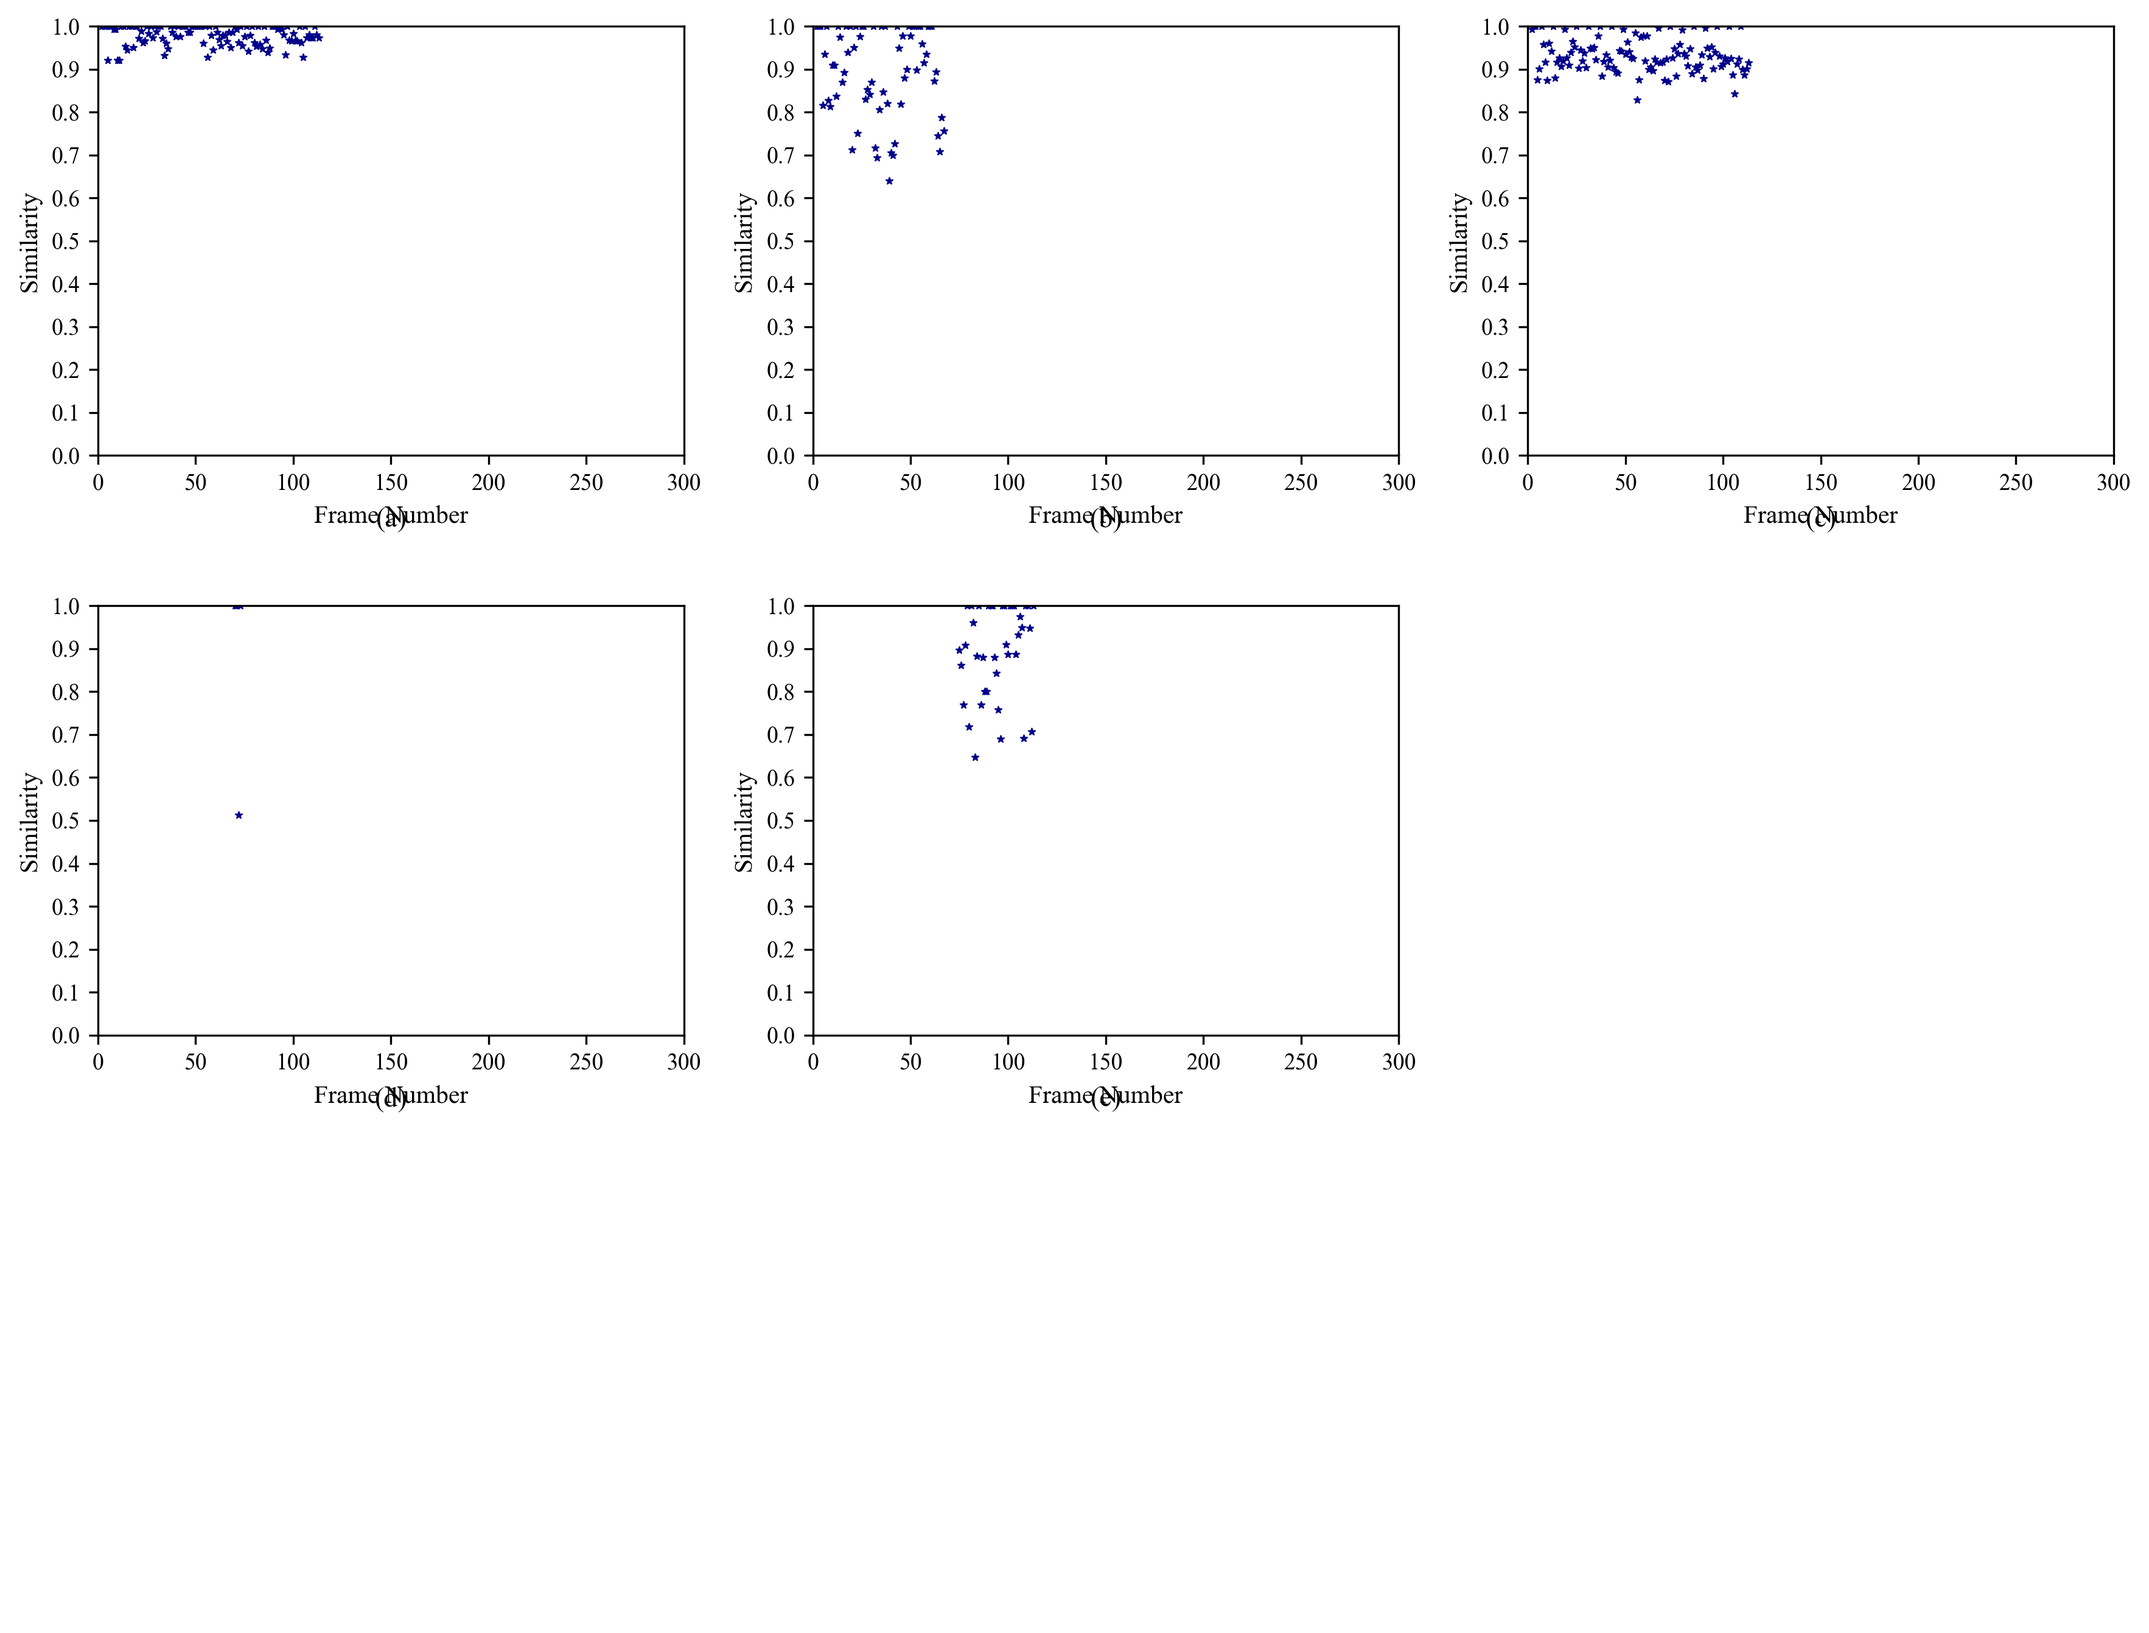
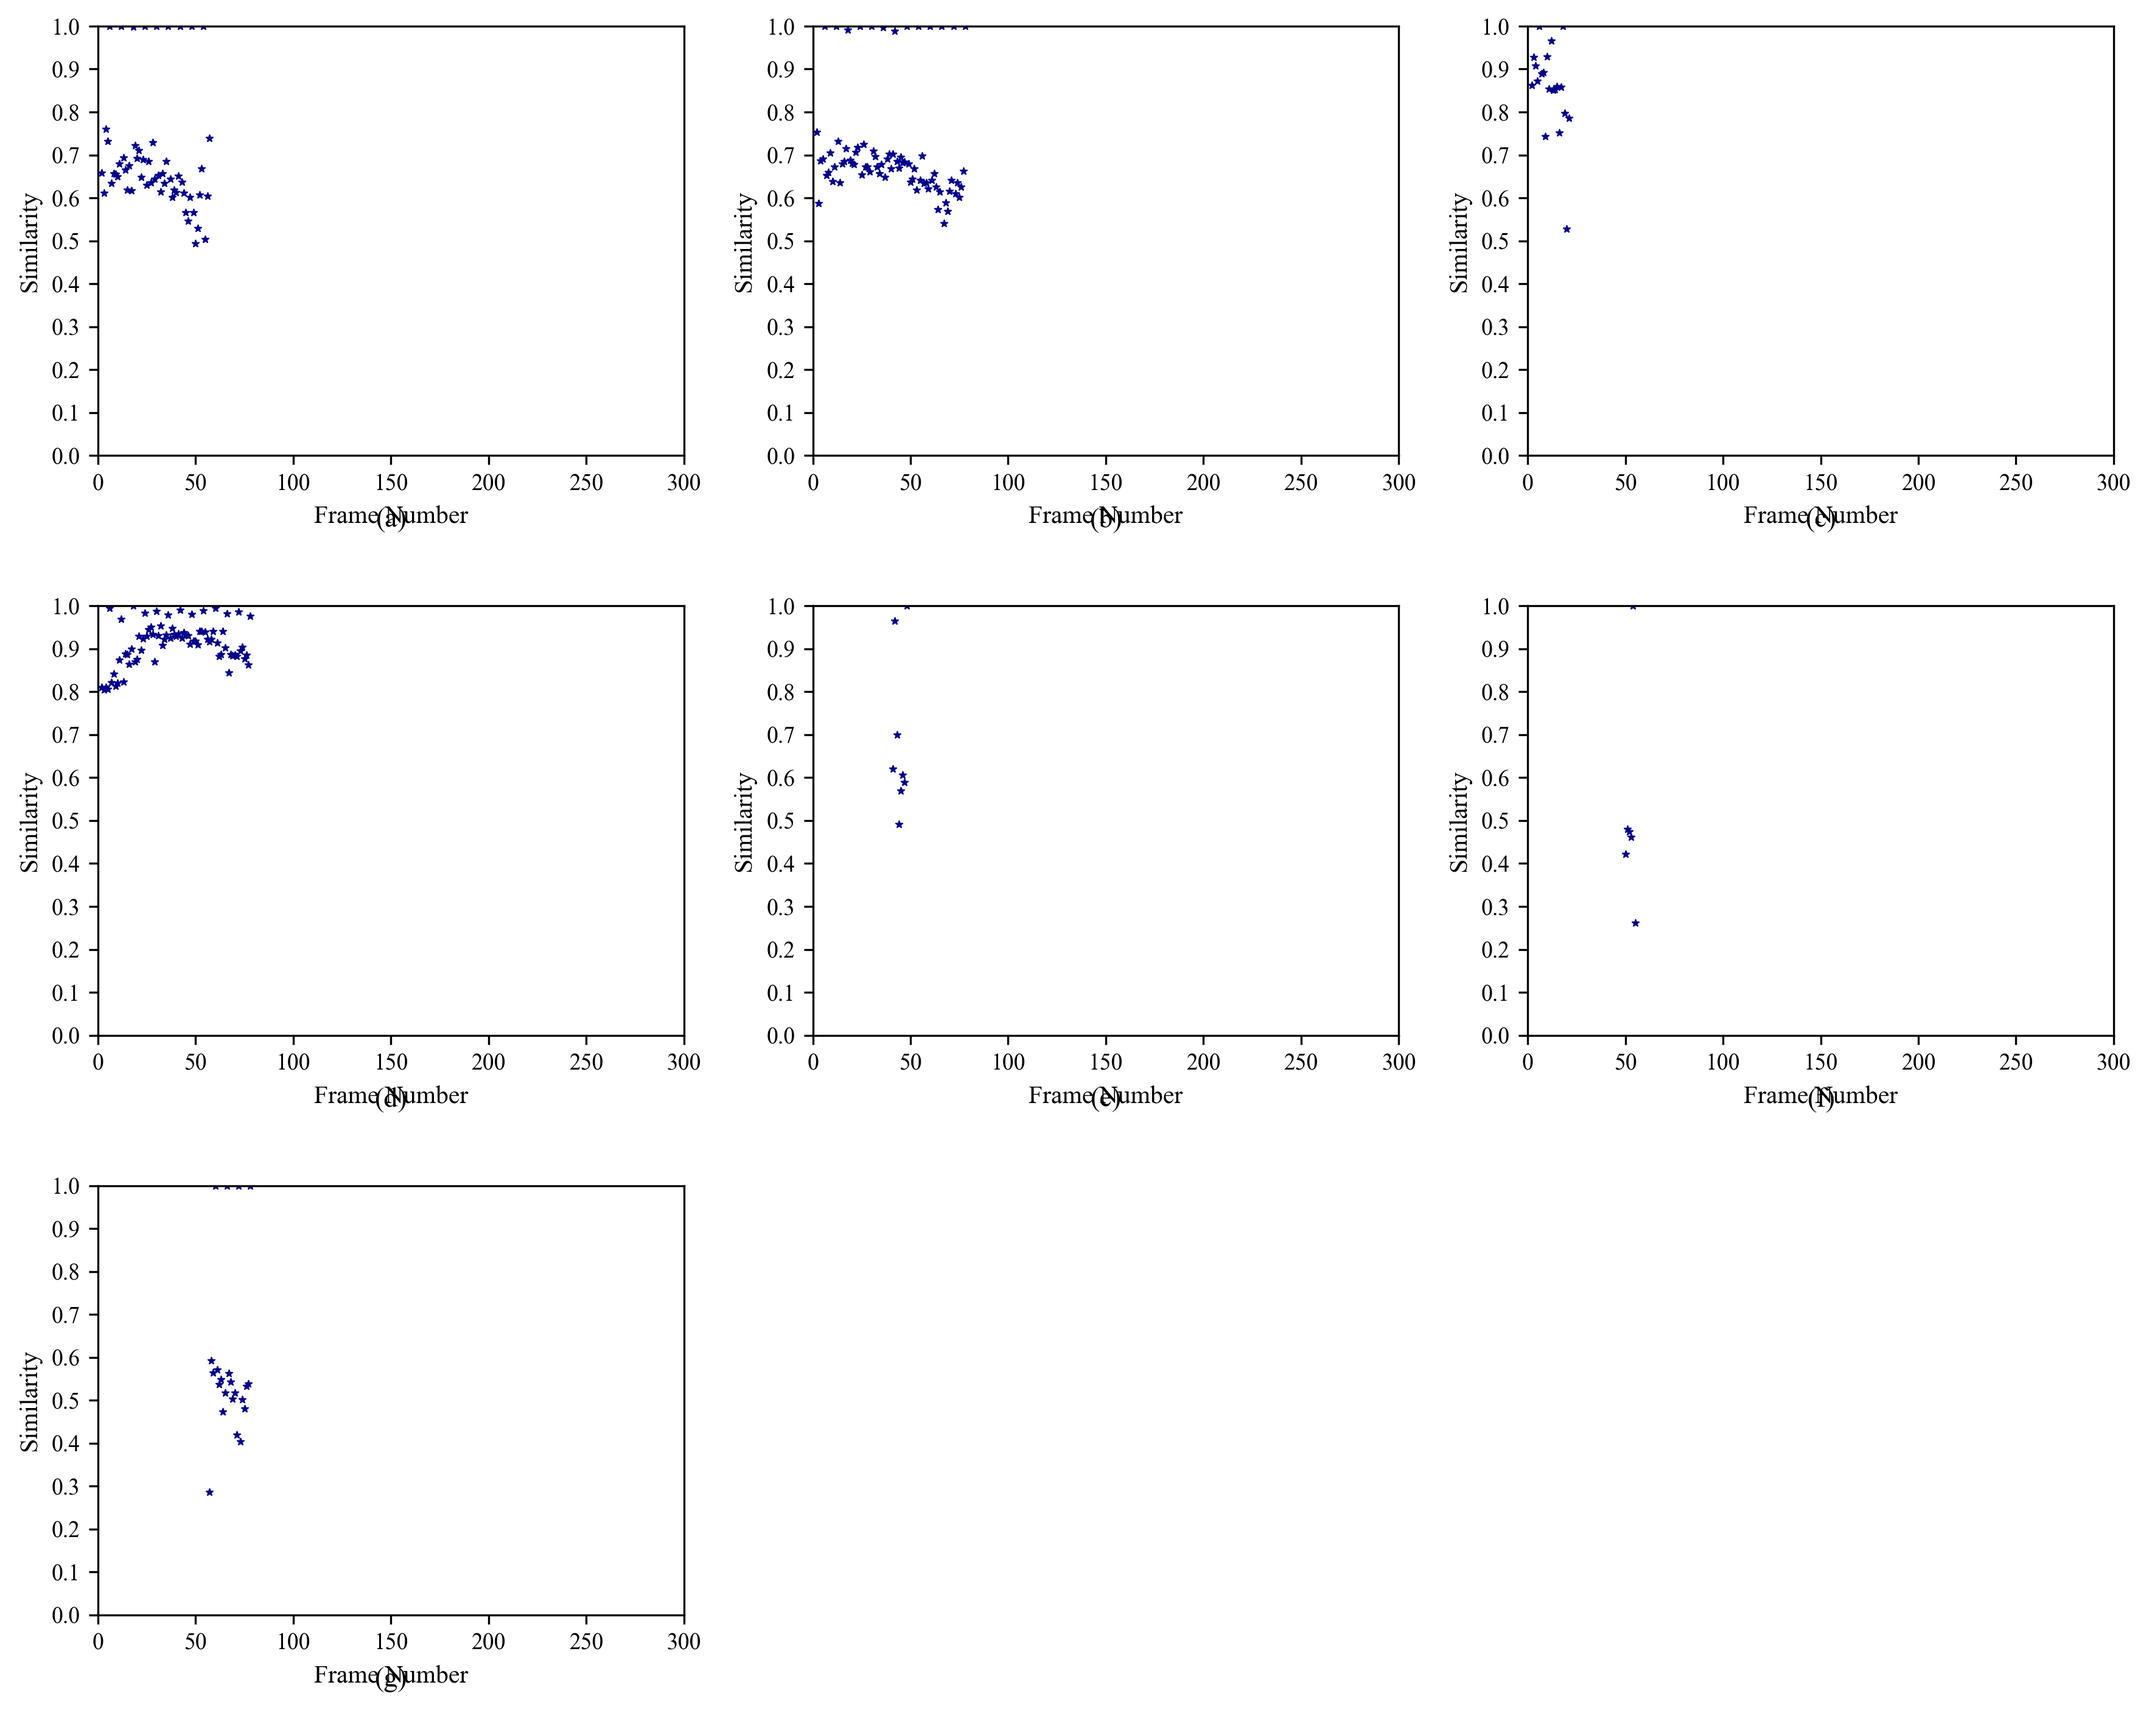
truck v4.1 00:20

diff --git a/MES.py b/MES.py
@@ -20,7 +20,7 @@ SE_HIGH = 0.88
 
 # 核心修改部分
 R_T = 110
-S_T = 70
+S_T = 90
 
 # 【优化】放宽跟踪距离阈值，减少ID刷新
 TRACKING_DIST_THRESH = 120
@@ -64,7 +64,7 @@ def get_flame_candidate_paper(frame):
     mask = cv2.morphologyEx(mask, cv2.MORPH_OPEN, kernel_small, iterations=1)
 
     # 2. 稍大核闭运算：填充火焰内部空洞、连接相邻火焰区域（解决连通性问题）
-    kernel_large = cv2.getStructuringElement(cv2.MORPH_ELLIPSE, (11, 11))
+    kernel_large = cv2.getStructuringElement(cv2.MORPH_ELLIPSE, (7, 7))
     mask = cv2.morphologyEx(mask, cv2.MORPH_CLOSE, kernel_large, iterations=2)
 
     # 3. 最终小开运算：清除闭运算后残留的微小噪点
@@ -376,7 +376,7 @@ def flame_detection(video_path):
     similarity_records = {}
 
     # ====================== 【新增】CSV初始化 ======================
-    csv_file = open("car.csv", "w", newline="", encoding="utf-8")
+    csv_file = open("truck.csv", "w", newline="", encoding="utf-8")
     csv_writer = csv.writer(csv_file)
     csv_writer.writerow([
         "Frame", "Target_ID", "CX", "CY", "Area", "IoU_Similarity",
@@ -536,4 +536,4 @@ def flame_detection(video_path):
 
 if __name__ == "__main__":
     # 替换为你的测试视频路径
-    flame_detection("part_mp4\car.mp4")
+    flame_detection("part_mp4\car2.mp4")

diff --git a/Plot_MES.py b/Plot_MES.py
@@ -110,7 +110,7 @@ def plot_single_target_similarity(target_id, df):
 
 if __name__ == "__main__":
     # 1. 读取CSV文件
-    csv_path = "car.csv"
+    csv_path = "truck.csv"
     try:
         df = pd.read_csv(csv_path)
         print(f"✅ 成功读取 {csv_path}")
